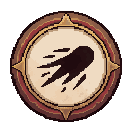
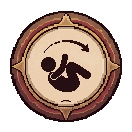
feat(ui): 터치 버튼 3종 아이콘 교체 + 스킬 아이콘 4종 한국풍 재생성
조사(!→돋보기)·회피(모호한 얼룩→구르는 실루엣)·점프(대각선→수직 위 화살표)
아이콘을 PixelLab inpaint로 나무 테두리 프레임은 그대로 두고 안쪽 글리프만
교체. 스킬 4종(여울 가르기/진혼의 물등/호신부/귀창 강림)은 부적·태극·창 등
한국 전통 모티프로 전면 재생성.

diff --git a/HANDOFF.md b/HANDOFF.md
@@ -85,6 +85,36 @@
 >
 > ## ▶ 다음 세션 시작점 (2026-08-21 갱신 · 여기부터 읽으면 됨)
 >
+> **추가(2026-08-21, 터치 버튼 3종 + 스킬 아이콘 4종 재생성):** 사용자 요청 — "조사를
+> 느낌표 대신 돋보기로, 회피를 구르는 아이콘으로, 점프를 수직 위 화살표로, 스킬
+> 아이콘 4종은 전부 더 한국적인 느낌으로". [[feedback_rpg_pixellab_art]] 원칙대로
+> PixelLab로만 작업. **① 터치 버튼(조사/회피/점프):** `inpaint_image`로 나무테두리
+> 프레임은 픽셀 그대로 두고 안쪽 원형 크림색 디스크 부분만 마스크 처리 — 프레임
+> 좌표는 PNG를 직접 디코드(zlib+struct, PIL 없어서 순수 파이썬으로 짬)해서 실측:
+> 132×132 버튼은 크림 디스크가 x/y 28~103, 156×156(점프)은 30~123, 각각 4px
+> 여유를 두고 마스크 지정. **base64 인라인은 이미지가 132px대인데도 MCP 클라이언트가
+> 중간에 잘라서(truncate) 실패**(`Could not decode image ... broken data stream`)
+> — 이 레포가 이미 공개 GitHub라 `raw.githubusercontent.com/.../assets/ui/mobile/
+> btn_*.png` URL을 그대로 `image_url`에 넘겨 해결(다음에도 이미지 입력이 실패하면
+> 이 방법 먼저 시도). 조사=돋보기, 점프=수직 화살표는 한 번에 성공. 회피는 첫
+> 시도(추상 소용돌이/쉼표 모양)가 "구르는 사람"으로 안 읽혀서 프롬프트를 더
+> 구체적으로("사람이 웅크려 구르는 실루엣 + 위에 곡선 화살표") 재작업해 통과.
+> **② 스킬 아이콘 4종(여울 가르기/진혼의 물등/호신부/귀창 강림):** `create_image_pixflux`
+> 순수 신규 생성(참고 이미지 없이, 색은 기존과 맞춤 — 청록/파랑/금색/보라-금).
+> 진혼의 물등(부적 산개)의 **첫 시도가 부적에 卍(만자) 비슷한 문양이 박혀 나와서
+> 재생성**(스와스티카로 오독될 수 있는 형태라 위험 판단, 프롬프트에 "십자/바람개비/
+> 만자 금지" 명시) — 재생성 결과는 부적에 "吉"(길, 길할 길) 한자가 선명하게 박혀
+> 나왔는데 이건 실제 부적에도 흔히 쓰이는 무해한 글자라 그대로 채택. 나머지
+> 3종(여울 가르기=먹 붓질 물결참, 호신부=금빛 원형 부적 메달리온, 귀창 강림=붉은
+> 술 달린 귀창이 보랏빛 원혼 불길에 휩싸여 내리꽂히는 모습)은 한 번에 통과.
+> **검증:** 헤드리스로 `test_mobile_ui`(8/8, `new_art_wired` 포함)·`test_skill_hud`
+> (2/2)·`test_touch_layout`(6/6) 재실행 그린 — 이 테스트들은 파일 존재만 확인하고
+> 내용은 안 봐서 원래도 안 깨지긴 하지만, 그림 자체가 코드 경로에 제대로 물려
+> 있는지는 이걸로 확인됨. **실물 화면(터치 버튼 눌림 크기, 스킬 슬롯에 실제로
+> 어떻게 보이는지)은 폰에서 확인 필요** — 이 환경은 헤드리스라 렌더된 게임
+> 화면 자체는 못 봄. PixelLab 사용량 총 811→**832/2000**(버튼 인페인트 4건+재시도 1건, 스킬
+> 신규생성 4건+재시도 1건). 로컬 커밋만, **푸시는 사용자 승인 대기**.
+>
 > **추가(2026-08-21, CI 헤드리스 실패 원인 규명 + 개발환경 개선):** 사용자가 "CI 실패나
 > 테스트 서버 오류 등 개발환경 개선 작업" 요청. **이번 세션엔 처음으로 이 환경(WSL)에
 > Godot 실행 파일이 있다는 걸 발견함** — `~/godot-bin/godot`(v4.6.3.stable, CI가 받는
